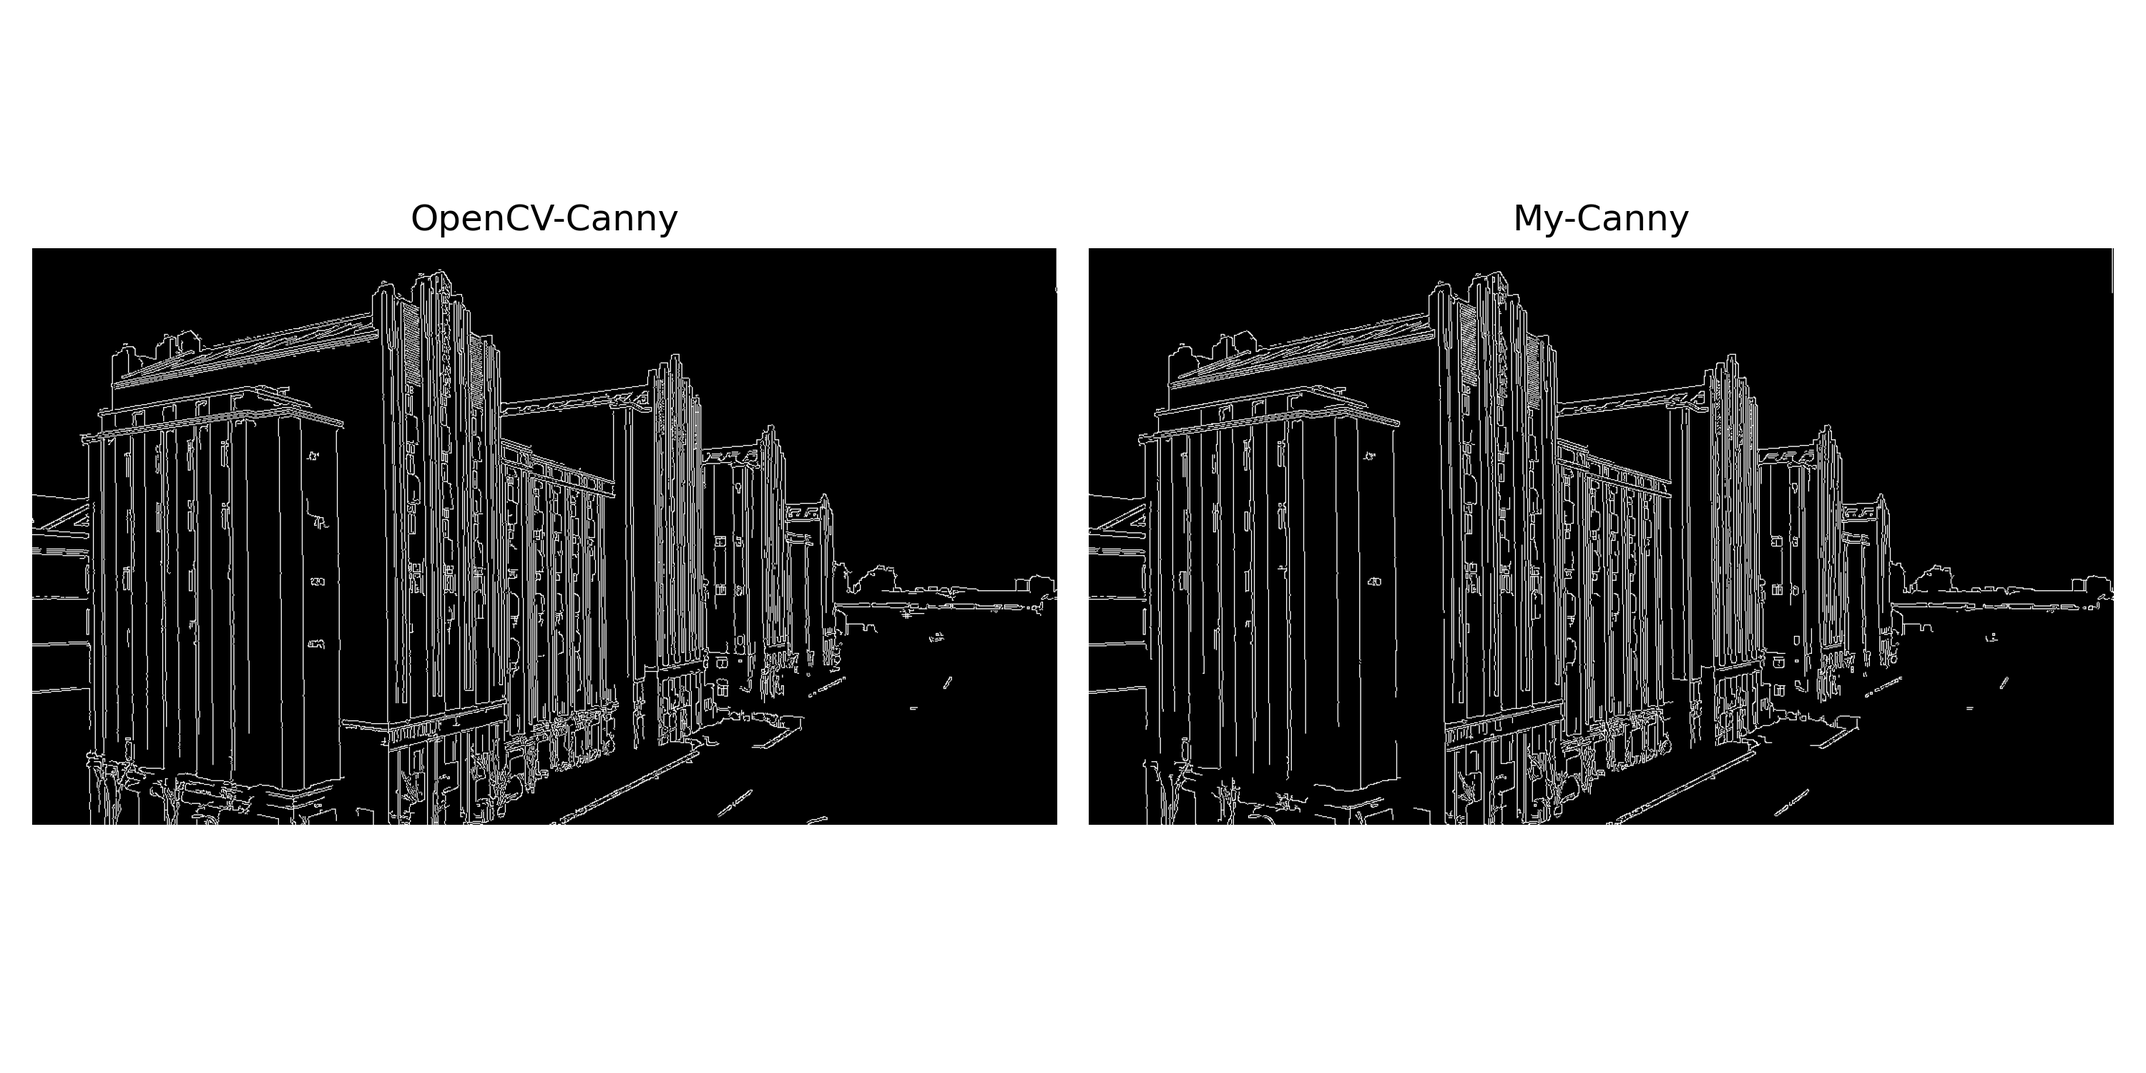
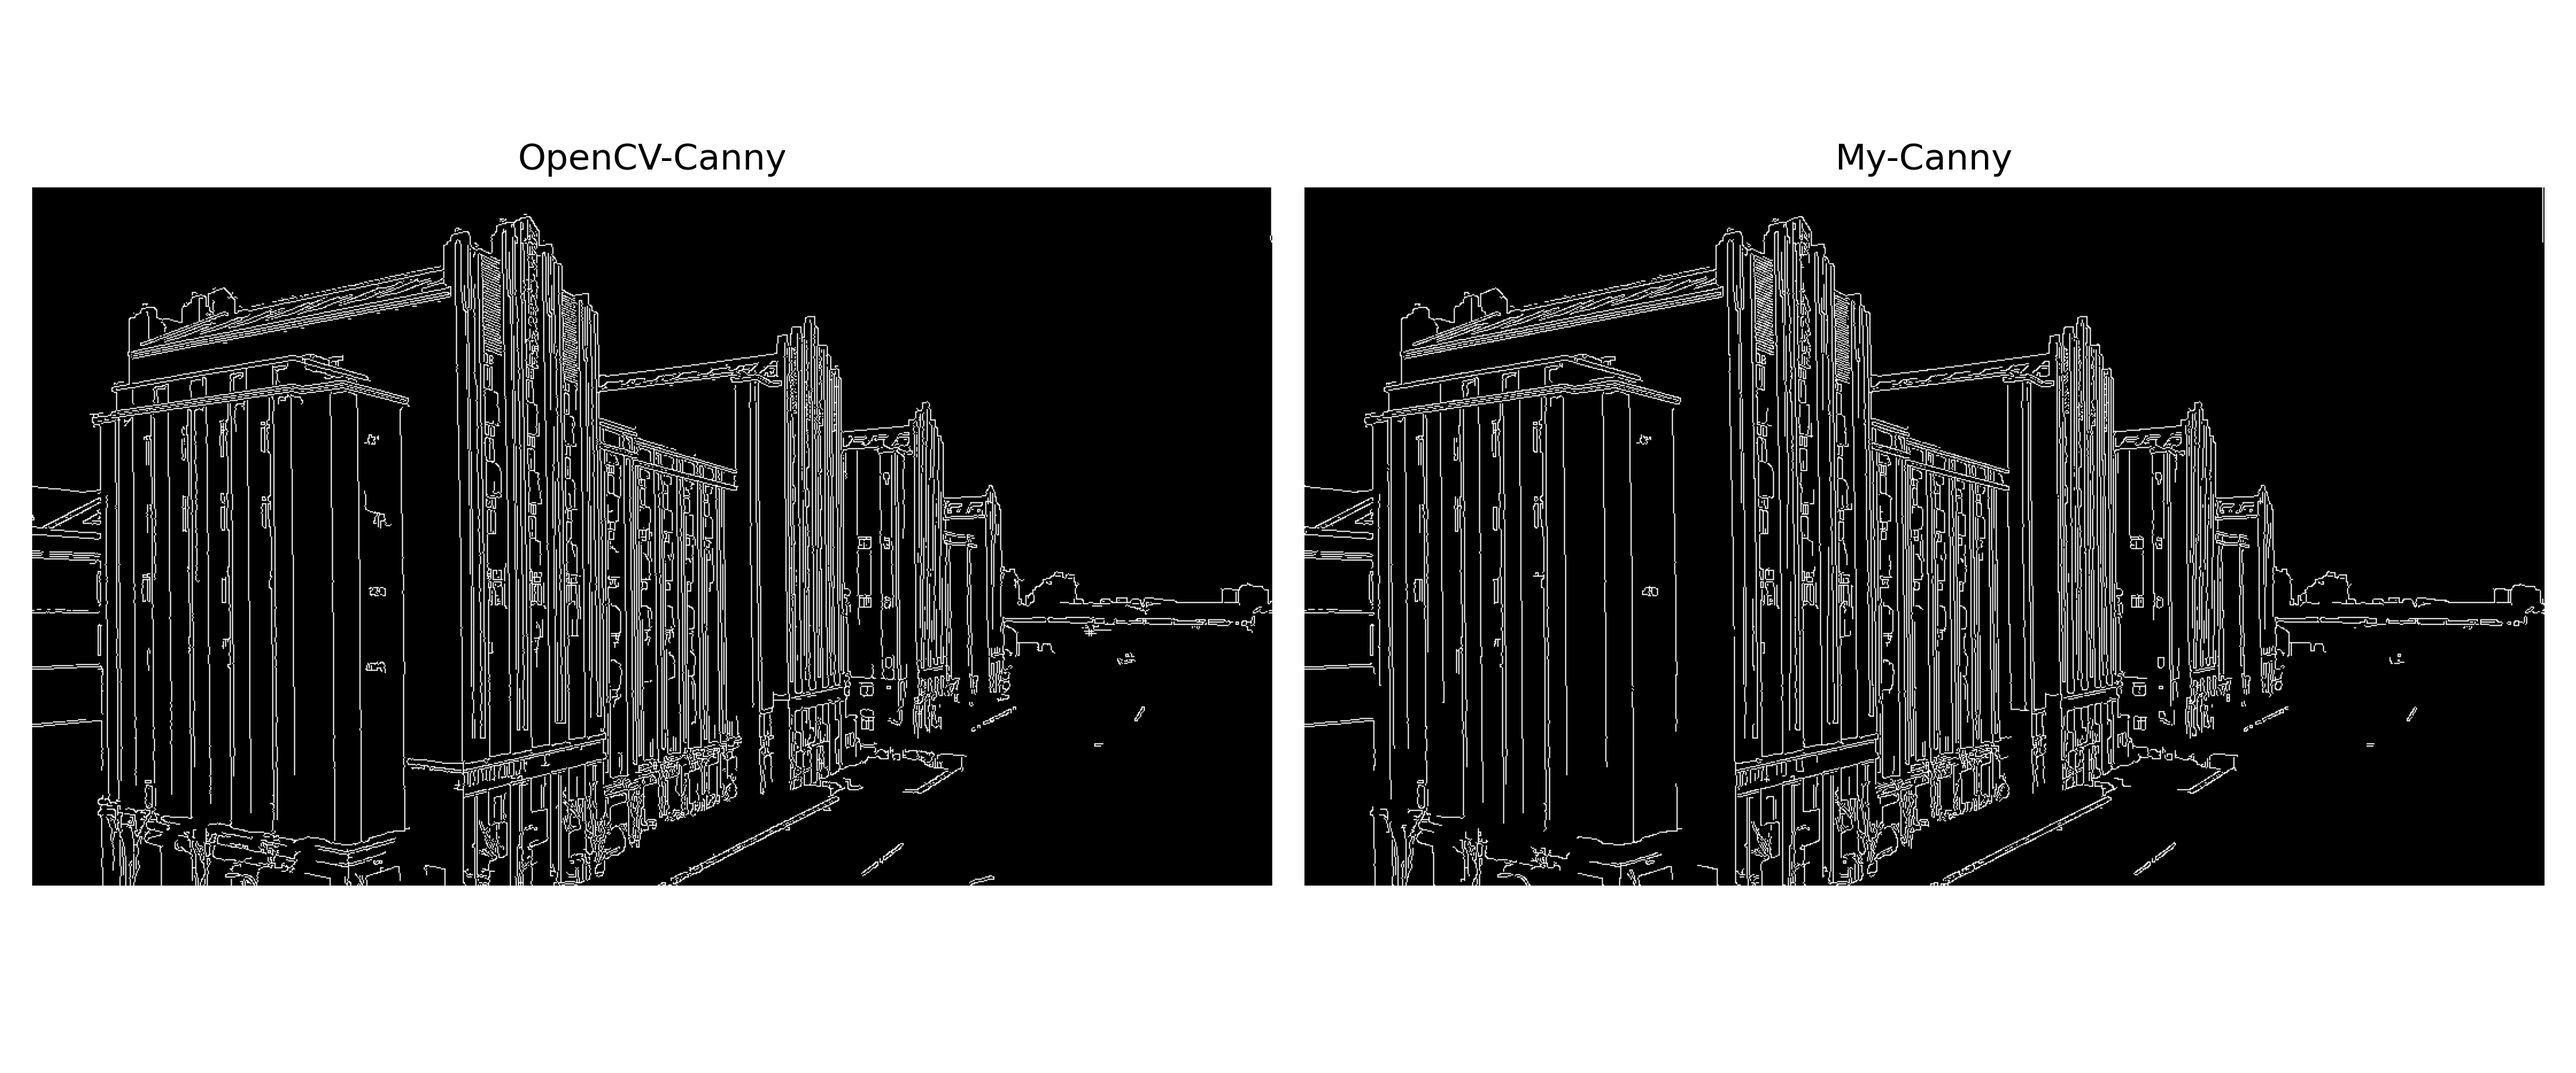
Add self-adaptive thresholding

Changed region(s): [[0.0, 0.1227, 0.992, 0.828]]

diff --git a/codes/modules.py b/codes/modules.py
@@ -3,7 +3,9 @@ import numpy as np
 import  matplotlib.pyplot as plt
 from typing import Literal, Union, Tuple, Optional
 from images import Image
-from utils import convolution
+from utils import convolution, threshold_otsu
+
+from skimage.filters import threshold_multiotsu
 
 
 class Module:
@@ -121,8 +123,8 @@ class GaussFilter(Module):
         # 计算和生成卷积核
         k = ksize // 2
         x, y = np.meshgrid(np.arange(1, ksize + 1), np.arange(1, ksize + 1))
-        x = np.pow(x - (k + 1), 2)
-        y = np.pow(y - (k + 1), 2)
+        x = (x - (k + 1))**2
+        y = (y - (k + 1))**2
         kernel = np.exp(-(x + y) / (2 * self.sigma**2)) / (2 * np.pi * self.sigma**2)
         self.kernel = kernel / kernel.sum()  # 归一化
 
@@ -151,6 +153,7 @@ class CalcGrad(Module):
         grad_x = convolution(img.data, self.s_x)  # 计算x方向梯度
         grad_y = convolution(img.data, self.s_y)  # 计算y方向梯度
         img.data = np.sqrt(grad_x ** 2 + grad_y ** 2)  # 计算梯度幅值
+        # img.data = img.data / img.data.max() * 255
         img.grad_tan = grad_y / (grad_x + 1e-6)  # 计算梯度方向
         return img
             
@@ -219,6 +222,28 @@ class NMSuppression(Module):
         grad_tan = img.grad_tan[x][y]
 
         com_points = []  # 保存需要比较的点的梯度幅值
+        # tan225 = np.tan(np.pi / 8)
+        # if -tan225 <= grad_tan < tan225:
+        #     if y != img_w - 1:
+        #         com_points.append(img.data[x][y + 1])
+        #     if y != 0:
+        #         com_points.append(img.data[x][y - 1])
+        # elif tan225 <= grad_tan < 1 / tan225:
+        #     if x != 0 and y != img_w - 1:
+        #         com_points.append(img.data[x - 1][y + 1])
+        #     if x != img_h - 1 and y != 0:
+        #         com_points.append(img.data[x + 1][y - 1])
+        # elif grad_tan >= 1 / tan225 or grad_tan < -1 / tan225:
+        #     if x != 0:
+        #         com_points.append(img.data[x - 1][y])
+        #     if x != img_h - 1:
+        #         com_points.append(img.data[x + 1][y])
+        # elif -1 / tan225 <= grad_tan < -tan225:
+        #     if x != 0 and y != 0:
+        #         com_points.append(img.data[x - 1][y - 1])
+        #     if x != img_h - 1 and y != img_w - 1:
+        #         com_points.append(img.data[x + 1][y + 1])
+
         if 0 <= grad_tan < 1:
             if x != 0 and y != img_w - 1:
                 com_points.append(grad_tan * img.data[x - 1][y + 1] + 
@@ -262,40 +287,68 @@ class DoubleThreshold(Module):
     def __init__(
             self, 
             th_low: Optional[int] = None, 
-            th_high: int = 150
+            th_high: int = 150,
+            otsu: bool = False
     ):
         """
         参数:
         th_low: 低阈值, 默认值为0.4 * 高阈值
         th_high: 高阈值, 默认值150
         """
-        # 设置默认低阈值
-        if th_low is None:
-            th_low = 0.4 * th_high
+        self.otsu = otsu
+        if self.otsu:
+            self.th_low = None
+            self.th_high = None
+        
+        else:
+            # 设置默认低阈值
+            if th_low is None:
+                th_low = 0.4 * th_high
 
-        assert th_low < th_high
-        self.th_low = th_low
-        self.th_high = th_high
+            assert th_low < th_high
+            self.th_low = th_low
+            self.th_high = th_high
 
     def __call__(
             self,
             img: Image
     ) -> Image:
+        
+        if self.otsu:
+            self.th_high = threshold_otsu(img)
+            self.th_low = 0.4 * self.th_high
+
         img_h, img_w = img.data.shape
-        # 选出强边缘
-        edge_x, edge_y = np.where(img.data >= self.th_high)
+        new_img = np.zeros_like(img.data, dtype=np.uint8)
+        edge_x, edge_y = np.where(img.data >= self.th_high)  # 选出强边缘点
         edges = list(zip(edge_x, edge_y))  # 保存要处理的像素点, 初始为所有强边缘点
         while len(edges) > 0:
             x, y = edges.pop()
-            img.data[x][y] = 255
+            new_img[x][y] = 255
             # 寻找周围是否有弱边缘点
             for dir_x, dir_y in [(0, 1), (0, -1), (1, 0), (-1, 0), (1, -1), (-1, 1), (1, 1), (-1, -1)]:
                 new_x = x + dir_x
                 new_y = y + dir_y
                 if not (0 <= new_x < img_h) or not (0 <= new_y < img_w):  # 越界保护
                     continue
-                if self.th_low <= img.data[new_x][new_y] < self.th_high:
-                    img.data[new_x][new_y] = 255
+                if self.th_low <= img.data[new_x][new_y] < self.th_high and new_img[new_x][new_y] != 255:  # 存在与边缘相连的弱边缘点
                     edges.append((new_x, new_y))
-        img.data = np.where(img.data == 255, img.data, 0).astype(np.uint8)  # 将非边缘点全部置零
+        img.data = new_img
         return img
+    
+
+
+if __name__ == '__main__':
+    model = Sequential(
+        GrayScale(type='average'),
+        GaussFilter(type='opencv'),
+        CalcGrad(operator='Sobel'),
+        NMSuppression(),
+        DoubleThreshold(otsu=True)
+    )
+    img = Image("images/1.jpg")
+    img = model(img)
+
+    plt.imshow(img.data, cmap='gray')
+    plt.grid('off')
+    plt.show()

diff --git a/codes/main.py b/codes/main.py
@@ -14,6 +14,8 @@ def parse_args(args):
     parser.add_argument("--operator", choices=["Roberts", "Sobel", "Prewitt", "Canny"], default="Sobel", help="type of gradient operator")
     parser.add_argument("--th-low", type=int, default=50, help="low threshold for edge detection")
     parser.add_argument("--th-high", type=int, default=150, help="high threshold for edge detection")
+    parser.add_argument('--otsu', type=bool, default=False, help="whether to use otsu to choose thresholds adaptively")
+    parser.add_argument('--sigma', type=float, default=0.1, help="sigma for Gaussian Blur")
     parser.add_argument("--output-dir", type=str, default="edges", help="path to folder of output images")
     parser.add_argument("--output-type", type=str, default="png", help="layout of output images")
     parser.add_argument("--compare", type=bool, default=False, help="whether to compare with the edges generated by OpenCV")
@@ -50,20 +52,22 @@ def create_model(args):
     """
     model = Sequential(
         GrayScale(), 
-        GaussFilter(kernel_size=(3, 3), sigma=0.1, type='opencv'), 
+        GaussFilter(kernel_size=(3, 3), sigma=args.sigma, type='opencv'), 
         CalcGrad(operator=args.operator),
         NMSuppression(), 
-        DoubleThreshold(args.th_low, args.th_high)
+        DoubleThreshold(args.th_low, args.th_high, otsu=args.otsu)
     )
     return model
+
 
 def edge_opencv(args, img_path):
     """
     生成使用opencv进行边缘检测的图像
     """
     img = cv2.imread(img_path, cv2.IMREAD_GRAYSCALE)
-    img = cv2.Canny(img, args.th_low, args.th_high)
+    img = cv2.Canny(img, 50, 150)
     return img
+
 
 def main(args):
     args = parse_args(args)
@@ -75,12 +79,17 @@ def main(args):
         img = model(img)
 
         original_filename = os.path.splitext(os.path.basename(img_path))[0]
+        output_name = f"{original_filename}-{args.operator}"
+        if args.otsu:
+            output_name += "-otsu"
+        else:
+            output_name += f"-{args.th_low}-{args.th_high}"
         if args.compare:
-            output_name = f"{original_filename}-{args.operator}-{args.th_low}-{args.th_high}-compare.{args.output_type}"
+            output_name += f"-compare.{args.output_type}"
             img_cv = edge_opencv(args, img_path)
             img.save(args.output_dir, output_name, compare=img_cv)
         else:
-            output_name = f"{original_filename}-{args.operator}-{args.th_low}-{args.th_high}.{args.output_type}"
+            output_name += f".{args.output_type}"
             img.save(args.output_dir, output_name)
     
     print(f"{len(img_paths)} figures successfully saved to {args.output_dir}")

diff --git a/codes/utils.py b/codes/utils.py
@@ -1,6 +1,6 @@
 import cv2
 import numpy as np
-
+from images import Image
 
 def convolution(
         img: np.ndarray, 
@@ -31,3 +31,25 @@ def convolution(
         for j in range(img_w):
             new_img[i][j] = (img_pad[i:i + ker_h, j:j + ker_w] * kernel).sum()
     return new_img
+
+
+def threshold_otsu(
+        img: Image
+):
+    lower = np.floor(img.data.min())
+    upper = np.ceil(img.data.max())
+    hist, bin_edges = np.histogram(img.data, bins=np.arange(lower, upper + 1))
+    bin_centers = (bin_edges[:-1] + bin_edges[1:]) / 2
+
+    weight1 = np.cumsum(hist)
+    weight2 = np.cumsum(hist[::-1])[::-1]
+
+    mean1 = np.cumsum(hist * bin_centers) / weight1
+    mean2 = (np.cumsum((hist * bin_centers)[::-1]) / weight2[::-1])[::-1]
+
+    variance12 = weight1[:-1] * weight2[1:] * (mean1[:-1] - mean2[1:]) ** 2
+
+    idx = np.argmax(variance12)
+    threshold = bin_centers[idx]
+
+    return threshold

diff --git a/codes/images.py b/codes/images.py
@@ -20,6 +20,7 @@ class Image():
 
         self.img_path = img_path
         self.grad_tan = None  # 保存梯度方向
+        self.hist = None
     
     def show(self):
         """
@@ -59,7 +60,7 @@ class Image():
 
         # 绘制比较图
         if compare is not None:
-            fig, ax = plt.subplots(1, 2, figsize=(10, 5))
+            fig, ax = plt.subplots(1, 2, figsize=(12, 5))
 
             # 绘制opencv结果
             ax[0].imshow(compare, cmap='gray')

diff --git a/README.md b/README.md
@@ -1,1 +1,5 @@
 # ICE2607 Lab2: Canny Edge Detection
+
+## Acknowledgements
+
+https://github.com/khushitejwani/Canny-Edge-Detection-Using-Otsu-Thresholding
